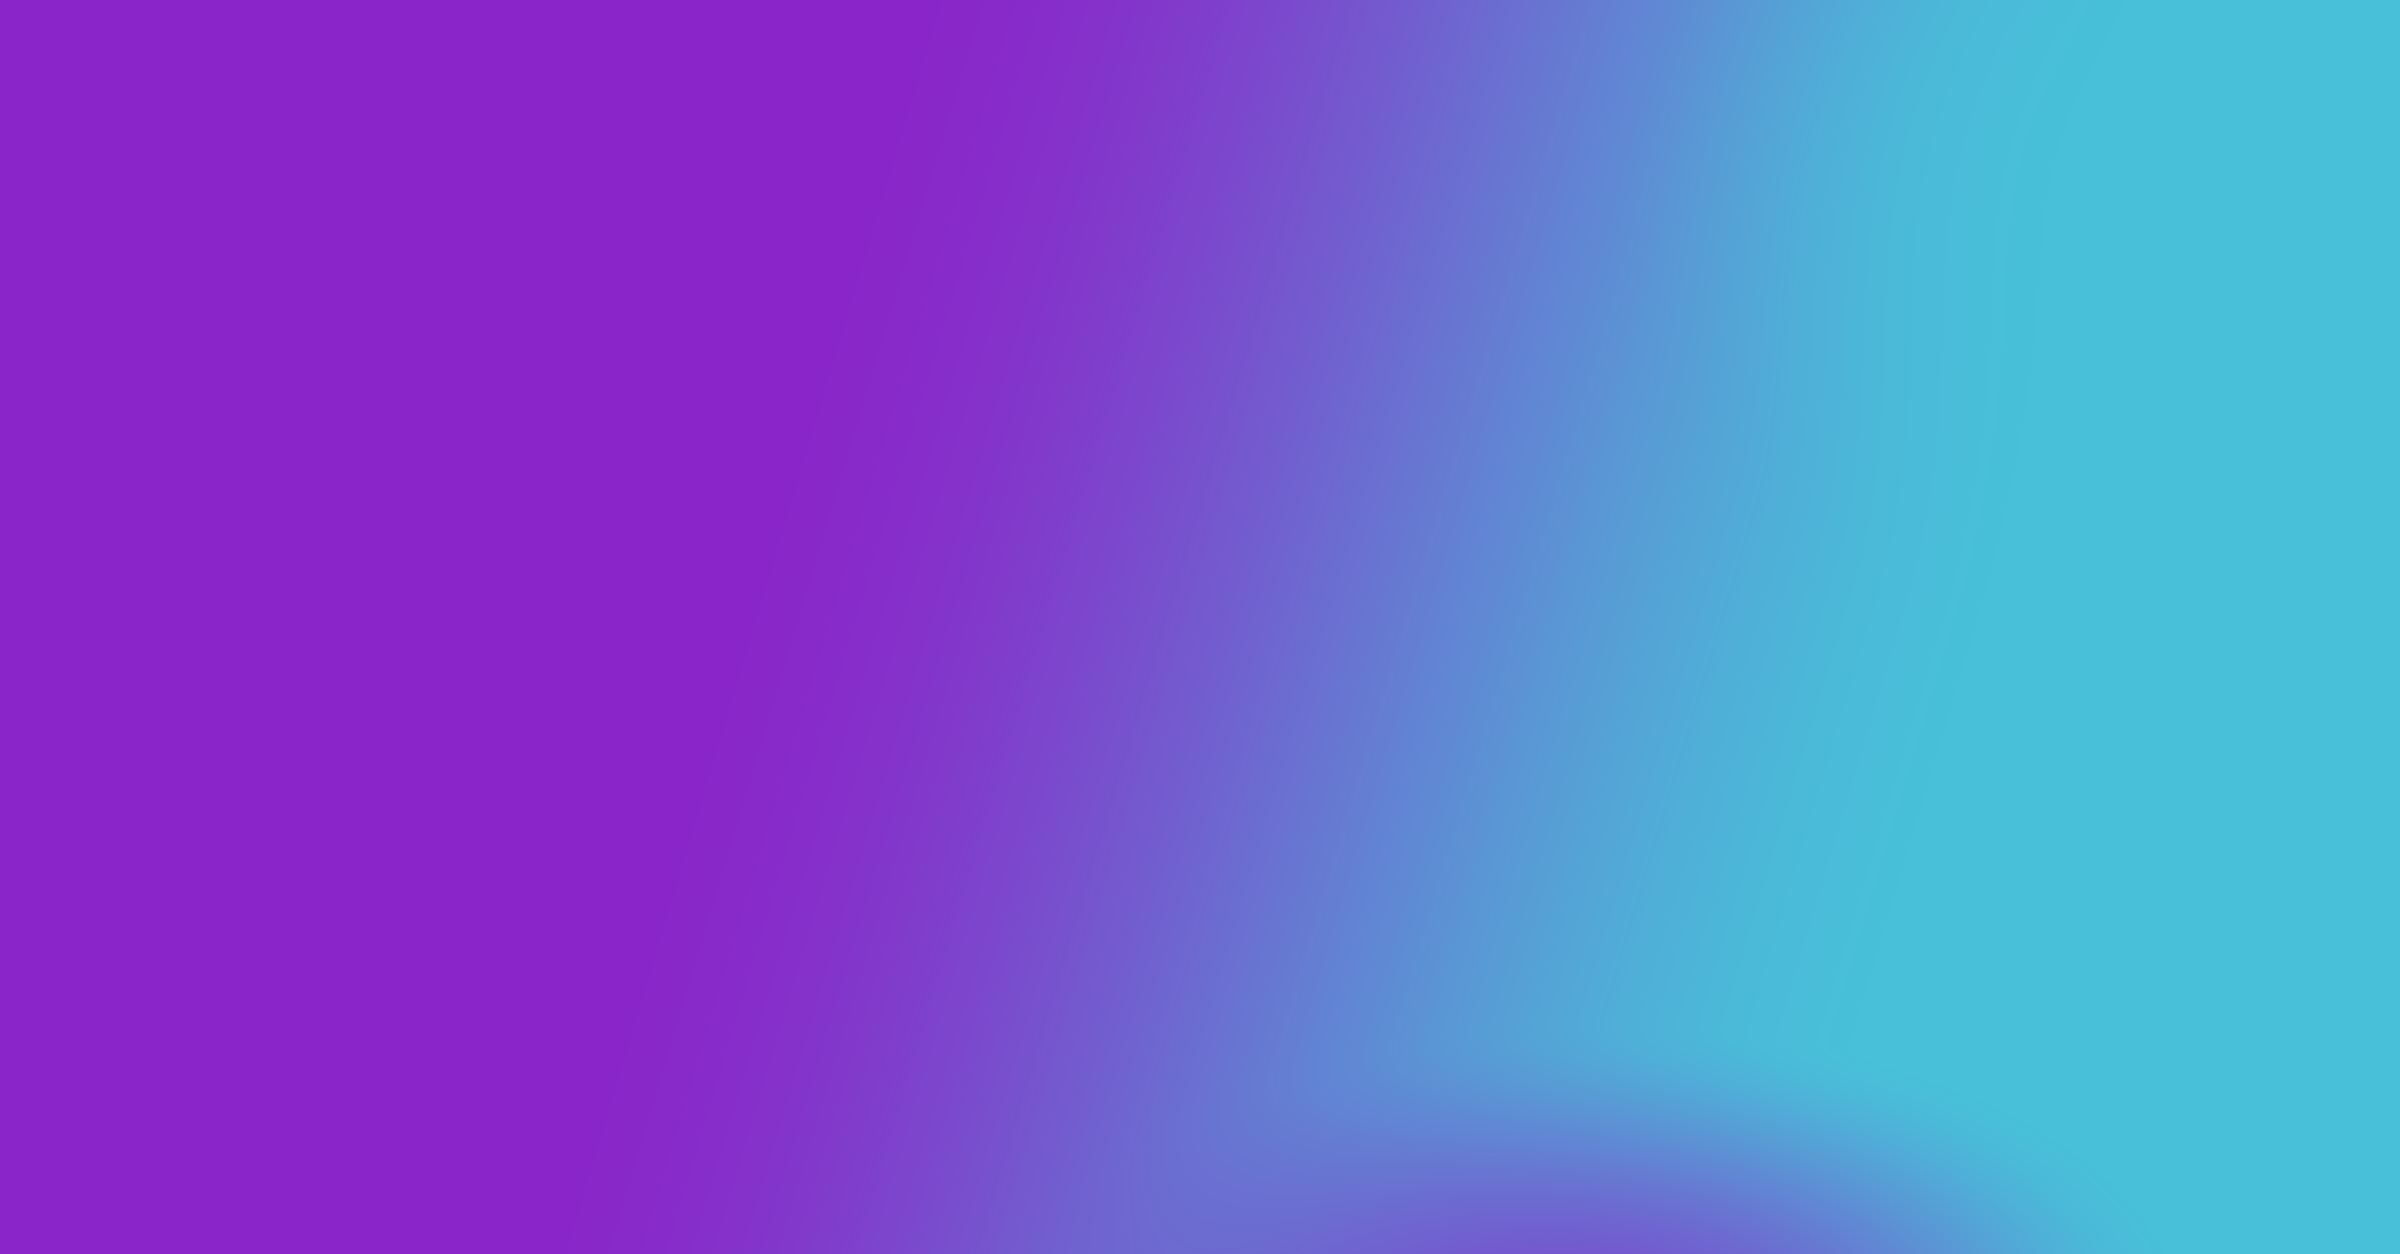
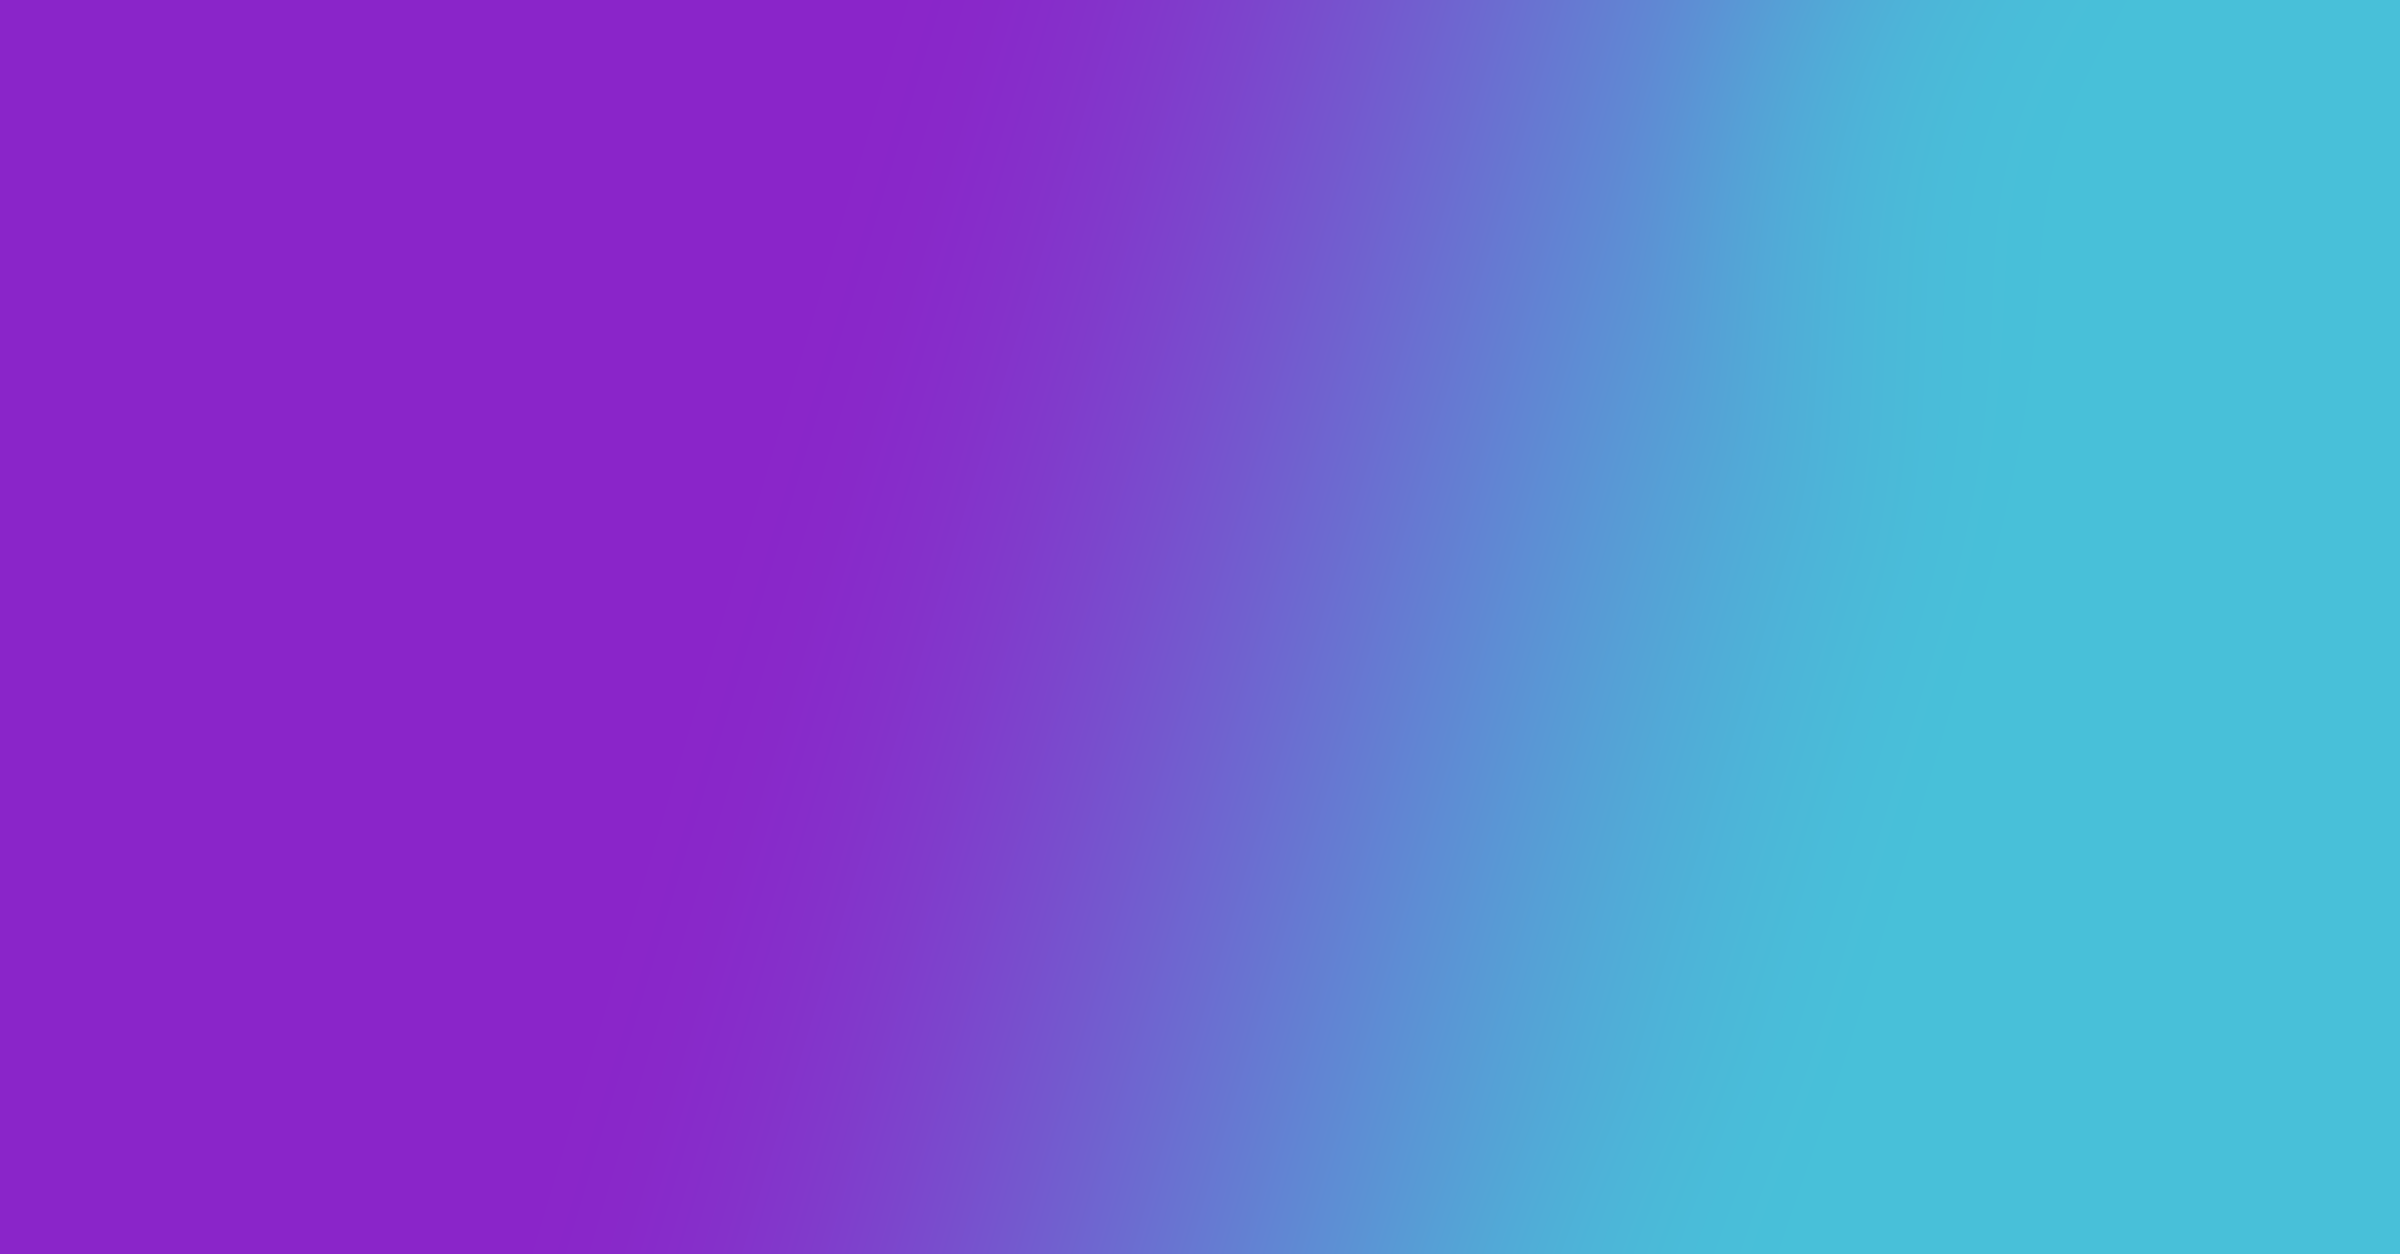
Graduate Student Program graphic: remove violet patch, rotate plus pattern 180°
Drop the bottom-middle violet blob from the background, and rotate the
official plus pattern 180 degrees (guidelines allow 90-degree rotations
only, no mirroring) so its long tail sits under the headline, clear of
the text.

Claude-Session: https://claude.ai/code/session_012MwK1vmEpNzT6vtmv9guo8

Changed region(s): [[0.5, 0.8708, 0.8438, 1.0]]

diff --git a/graduate-student-program/graphic.html b/graduate-student-program/graphic.html
@@ -34,12 +34,12 @@ h1{position:absolute;left:61px;top:140px;font-weight:600;font-size:82px;line-hei
    <stop offset="1" stop-color="#fff" stop-opacity="0"/></radialGradient>
  </defs>
  <g fill="none" stroke="url(#t)" stroke-linecap="round">
-  <g stroke-width="7" opacity=".35" filter="url(#glow2)"><path d="M935.3 81.7C977.9 81.7 992.1 323.2 1030 350"/><path d="M904.0 139.6C960.7 139.6 979.6 329.0 1030 350"/><path d="M961.5 194.7C992.3 194.7 1002.6 334.5 1030 350"/><path d="M829.9 150.7C919.9 150.7 949.9 330.1 1030 350"/><path d="M757.1 165.5C879.9 165.5 920.8 331.6 1030 350"/><path d="M797.3 218.5C902.0 218.5 936.9 336.9 1030 350"/><path d="M720.6 271.3C859.8 271.3 906.2 342.1 1030 350"/><path d="M662.3 227.8C827.8 227.8 882.9 337.8 1030 350"/><path d="M681.2 324.1C838.2 324.1 890.5 347.4 1030 350"/><path d="M885.7 294.5C950.6 294.5 972.3 344.5 1030 350"/><path d="M828.6 350.6C919.2 350.6 949.4 350.1 1030 350"/><path d="M859.9 407.9C936.5 407.9 962.0 355.8 1030 350"/><path d="M912.5 514.7C965.4 514.7 983.0 366.5 1030 350"/></g>
-  <g stroke-width="3" opacity=".6" filter="url(#glow)"><path d="M935.3 81.7C977.9 81.7 992.1 323.2 1030 350"/><path d="M904.0 139.6C960.7 139.6 979.6 329.0 1030 350"/><path d="M961.5 194.7C992.3 194.7 1002.6 334.5 1030 350"/><path d="M829.9 150.7C919.9 150.7 949.9 330.1 1030 350"/><path d="M757.1 165.5C879.9 165.5 920.8 331.6 1030 350"/><path d="M797.3 218.5C902.0 218.5 936.9 336.9 1030 350"/><path d="M720.6 271.3C859.8 271.3 906.2 342.1 1030 350"/><path d="M662.3 227.8C827.8 227.8 882.9 337.8 1030 350"/><path d="M681.2 324.1C838.2 324.1 890.5 347.4 1030 350"/><path d="M885.7 294.5C950.6 294.5 972.3 344.5 1030 350"/><path d="M828.6 350.6C919.2 350.6 949.4 350.1 1030 350"/><path d="M859.9 407.9C936.5 407.9 962.0 355.8 1030 350"/><path d="M912.5 514.7C965.4 514.7 983.0 366.5 1030 350"/></g>
-  <g stroke-width="1.2" opacity=".95"><path d="M935.3 81.7C977.9 81.7 992.1 323.2 1030 350"/><path d="M904.0 139.6C960.7 139.6 979.6 329.0 1030 350"/><path d="M961.5 194.7C992.3 194.7 1002.6 334.5 1030 350"/><path d="M829.9 150.7C919.9 150.7 949.9 330.1 1030 350"/><path d="M757.1 165.5C879.9 165.5 920.8 331.6 1030 350"/><path d="M797.3 218.5C902.0 218.5 936.9 336.9 1030 350"/><path d="M720.6 271.3C859.8 271.3 906.2 342.1 1030 350"/><path d="M662.3 227.8C827.8 227.8 882.9 337.8 1030 350"/><path d="M681.2 324.1C838.2 324.1 890.5 347.4 1030 350"/><path d="M885.7 294.5C950.6 294.5 972.3 344.5 1030 350"/><path d="M828.6 350.6C919.2 350.6 949.4 350.1 1030 350"/><path d="M859.9 407.9C936.5 407.9 962.0 355.8 1030 350"/><path d="M912.5 514.7C965.4 514.7 983.0 366.5 1030 350"/></g>
-  <g stroke-width=".7" opacity=".5"><path d="M935.3 78.7C997.9 71.7 992.1 317.2 1030 350"/><path d="M904.0 142.6C980.7 149.6 979.6 335.0 1030 350"/><path d="M961.5 191.7C1012.3 184.7 1002.6 328.5 1030 350"/><path d="M829.9 153.7C939.9 160.7 949.9 336.1 1030 350"/><path d="M757.1 162.5C899.9 155.5 920.8 325.6 1030 350"/><path d="M797.3 221.5C922.0 228.5 936.9 342.9 1030 350"/><path d="M720.6 268.3C879.8 261.3 906.2 336.1 1030 350"/><path d="M662.3 230.8C847.8 237.8 882.9 343.8 1030 350"/><path d="M681.2 321.1C858.2 314.1 890.5 341.4 1030 350"/><path d="M885.7 297.5C970.6 304.5 972.3 350.5 1030 350"/><path d="M828.6 347.6C939.2 340.6 949.4 344.1 1030 350"/><path d="M859.9 410.9C956.5 417.9 962.0 361.8 1030 350"/><path d="M912.5 511.7C985.4 504.7 983.0 360.5 1030 350"/></g>
+  <g stroke-width="7" opacity=".35" filter="url(#glow2)"><path d="M662.5 514.7C827.9 514.7 883.0 366.5 1030 350"/><path d="M693.8 456.8C845.1 456.8 895.5 360.7 1030 350"/><path d="M636.3 401.7C813.5 401.7 872.5 355.2 1030 350"/><path d="M767.9 445.7C885.9 445.7 925.2 359.6 1030 350"/><path d="M840.7 430.9C925.9 430.9 954.3 358.1 1030 350"/><path d="M800.5 377.9C903.8 377.9 938.2 352.8 1030 350"/><path d="M877.2 325.1C946.0 325.1 968.9 347.5 1030 350"/><path d="M935.5 368.6C978.0 368.6 992.2 351.9 1030 350"/><path d="M916.6 272.3C967.6 272.3 984.7 342.2 1030 350"/><path d="M712.1 301.9C855.2 301.9 902.9 345.2 1030 350"/><path d="M769.2 245.8C886.6 245.8 925.7 339.6 1030 350"/><path d="M737.9 188.5C869.3 188.5 913.1 333.9 1030 350"/><path d="M685.3 81.7C840.4 81.7 892.1 323.2 1030 350"/></g>
+  <g stroke-width="3" opacity=".6" filter="url(#glow)"><path d="M662.5 514.7C827.9 514.7 883.0 366.5 1030 350"/><path d="M693.8 456.8C845.1 456.8 895.5 360.7 1030 350"/><path d="M636.3 401.7C813.5 401.7 872.5 355.2 1030 350"/><path d="M767.9 445.7C885.9 445.7 925.2 359.6 1030 350"/><path d="M840.7 430.9C925.9 430.9 954.3 358.1 1030 350"/><path d="M800.5 377.9C903.8 377.9 938.2 352.8 1030 350"/><path d="M877.2 325.1C946.0 325.1 968.9 347.5 1030 350"/><path d="M935.5 368.6C978.0 368.6 992.2 351.9 1030 350"/><path d="M916.6 272.3C967.6 272.3 984.7 342.2 1030 350"/><path d="M712.1 301.9C855.2 301.9 902.9 345.2 1030 350"/><path d="M769.2 245.8C886.6 245.8 925.7 339.6 1030 350"/><path d="M737.9 188.5C869.3 188.5 913.1 333.9 1030 350"/><path d="M685.3 81.7C840.4 81.7 892.1 323.2 1030 350"/></g>
+  <g stroke-width="1.2" opacity=".95"><path d="M662.5 514.7C827.9 514.7 883.0 366.5 1030 350"/><path d="M693.8 456.8C845.1 456.8 895.5 360.7 1030 350"/><path d="M636.3 401.7C813.5 401.7 872.5 355.2 1030 350"/><path d="M767.9 445.7C885.9 445.7 925.2 359.6 1030 350"/><path d="M840.7 430.9C925.9 430.9 954.3 358.1 1030 350"/><path d="M800.5 377.9C903.8 377.9 938.2 352.8 1030 350"/><path d="M877.2 325.1C946.0 325.1 968.9 347.5 1030 350"/><path d="M935.5 368.6C978.0 368.6 992.2 351.9 1030 350"/><path d="M916.6 272.3C967.6 272.3 984.7 342.2 1030 350"/><path d="M712.1 301.9C855.2 301.9 902.9 345.2 1030 350"/><path d="M769.2 245.8C886.6 245.8 925.7 339.6 1030 350"/><path d="M737.9 188.5C869.3 188.5 913.1 333.9 1030 350"/><path d="M685.3 81.7C840.4 81.7 892.1 323.2 1030 350"/></g>
+  <g stroke-width=".7" opacity=".5"><path d="M662.5 511.7C847.9 504.7 883.0 360.5 1030 350"/><path d="M693.8 459.8C865.1 466.8 895.5 366.7 1030 350"/><path d="M636.3 398.7C833.5 391.7 872.5 349.2 1030 350"/><path d="M767.9 448.7C905.9 455.7 925.2 365.6 1030 350"/><path d="M840.7 427.9C945.9 420.9 954.3 352.1 1030 350"/><path d="M800.5 380.9C923.8 387.9 938.2 358.8 1030 350"/><path d="M877.2 322.1C966.0 315.1 968.9 341.5 1030 350"/><path d="M935.5 371.6C998.0 378.6 992.2 357.9 1030 350"/><path d="M916.6 269.3C987.6 262.3 984.7 336.2 1030 350"/><path d="M712.1 304.9C875.2 311.9 902.9 351.2 1030 350"/><path d="M769.2 242.8C906.6 235.8 925.7 333.6 1030 350"/><path d="M737.9 191.5C889.3 198.5 913.1 339.9 1030 350"/><path d="M685.3 78.7C860.4 71.7 892.1 317.2 1030 350"/></g>
  </g>
- <g fill="#fff" filter="url(#pg)"><path d="M898.98 78.44H911.42V66.00H917.86V78.44H930.30V84.89H917.86V97.33H911.42V84.89H898.98Z"/><path d="M867.65 136.42H880.09V123.98H886.54V136.42H898.98V142.86H886.54V155.30H880.09V142.86H867.65Z"/><path d="M925.16 191.44H937.60V179.00H944.05V191.44H956.49V197.88H944.05V210.32H937.60V197.88H925.16Z"/><path d="M793.55 147.48H805.99V135.04H812.43V147.48H824.87V153.93H812.43V166.37H805.99V153.93H793.55Z"/><path d="M720.76 162.29H733.20V149.85H739.64V162.29H752.08V168.74H739.64V181.18H733.20V168.74H720.76Z"/><path d="M760.97 215.28H773.41V202.84H779.86V215.28H792.30V221.73H779.86V234.17H773.41V221.73H760.97Z"/><path d="M684.29 268.07H696.73V255.63H703.17V268.07H715.61V274.51H703.17V286.95H696.73V274.51H684.29Z"/><path d="M626.00 224.58H638.44V212.14H644.89V224.58H657.33V231.03H644.89V243.47H638.44V231.03H626.00Z"/><path d="M644.86 320.90H657.30V308.46H663.74V320.90H676.18V327.35H663.74V339.79H657.30V327.35H644.86Z"/><path d="M849.34 291.29H861.78V278.85H868.23V291.29H880.67V297.74H868.23V310.18H861.78V297.74H849.34Z"/><path d="M792.29 347.40H804.73V334.96H811.18V347.40H823.62V353.84H811.18V366.28H804.73V353.84H792.29Z"/><path d="M823.62 404.68H836.06V392.24H842.50V404.68H854.94V411.12H842.50V423.56H836.06V411.12H823.62Z"/><path d="M876.22 511.51H888.66V499.07H895.10V511.51H907.54V517.96H895.10V530.40H888.66V517.96H876.22Z"/></g>
+ <g fill="#fff" filter="url(#pg)"><path d="M626.19 511.51H638.63V499.07H645.07V511.51H657.51V517.96H645.07V530.40H638.63V517.96H626.19Z"/><path d="M657.51 453.54H669.95V441.10H676.40V453.54H688.84V459.98H676.40V472.42H669.95V459.98H657.51Z"/><path d="M600.00 398.52H612.44V386.08H618.89V398.52H631.33V404.96H618.89V417.40H612.44V404.96H600.00Z"/><path d="M731.62 442.47H744.06V430.03H750.50V442.47H762.94V448.92H750.50V461.36H744.06V448.92H731.62Z"/><path d="M804.40 427.66H816.84V415.22H823.29V427.66H835.73V434.11H823.29V446.55H816.84V434.11H804.40Z"/><path d="M764.19 374.67H776.63V362.23H783.08V374.67H795.52V381.12H783.08V393.56H776.63V381.12H764.19Z"/><path d="M840.88 321.89H853.32V309.45H859.76V321.89H872.20V328.33H859.76V340.77H853.32V328.33H840.88Z"/><path d="M899.16 365.37H911.60V352.93H918.05V365.37H930.49V371.82H918.05V384.26H911.60V371.82H899.16Z"/><path d="M880.31 269.05H892.75V256.61H899.19V269.05H911.63V275.50H899.19V287.94H892.75V275.50H880.31Z"/><path d="M675.82 298.66H688.26V286.22H694.71V298.66H707.15V305.11H694.71V317.55H688.26V305.11H675.82Z"/><path d="M732.87 242.56H745.31V230.12H751.76V242.56H764.20V249.00H751.76V261.44H745.31V249.00H732.87Z"/><path d="M701.54 185.28H713.98V172.84H720.43V185.28H732.87V191.72H720.43V204.16H713.98V191.72H701.54Z"/><path d="M648.94 78.44H661.38V66.00H667.83V78.44H680.27V84.89H667.83V97.33H661.38V84.89H648.94Z"/></g>
 </svg>
 <div class="stage"><div class="card">
  <div class="ln" style="top:34px;width:112px"></div><div class="ln" style="top:50px;width:72px;opacity:.7"></div>

diff --git a/graduate-student-program/build.py b/graduate-student-program/build.py
@@ -12,13 +12,13 @@ for p in polys:
     n = list(map(float, p.split()))
     xs, ys = n[0::2], n[1::2]
     centers.append(((min(xs)+max(xs))/2, (min(ys)+max(ys))/2))
-ROT = sys.argv[1] if len(sys.argv) > 1 else 'cw'
+ROT = sys.argv[1] if len(sys.argv) > 1 else 'ccw'
 def rot(x, y):
     if ROT == 'cw':  return (PH - y, x)          # 90 clockwise
     if ROT == 'ccw': return (y, PW - x)          # 90 counter-clockwise
     return (x, y)
 PS = 0.43                     # pattern scale
-PX, PY = 626, 66              # pattern origin
+PX, PY = 600, 66              # pattern origin
 ARM = 72.85 * PS              # plus width in px
 BAR = 14.99 * PS              # stroke thickness in px
 pts = [(PX + rot(x, y)[0]*PS, PY + rot(x, y)[1]*PS) for x, y in centers]

diff --git a/graduate-student-program/bg.py b/graduate-student-program/bg.py
@@ -25,7 +25,6 @@ def bump(cx, cy, rx, ry):
 t = smooth(0.36, 0.92, (x + 0.30 * y) / W)              # diagonal base gradient
 t = t + (1 - t) * bump(1130, 90, 330, 250)              # turquoise glow, top right
 t = t + (1 - t) * 0.55 * bump(1080, 660, 420, 170)      # turquoise sweep, bottom right
-t = t * (1 - 0.7 * bump(800, 660, 300, 150))            # violet pool, bottom middle
 
 img = VIOLET + t[..., None] * (TURQ - VIOLET)
 out = pathlib.Path(__file__).parent / 'bg@2x.png'
